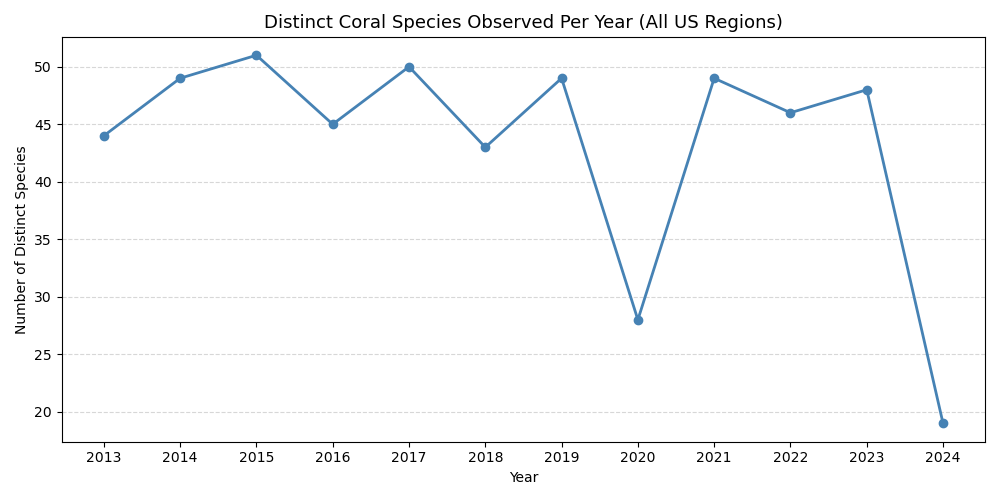
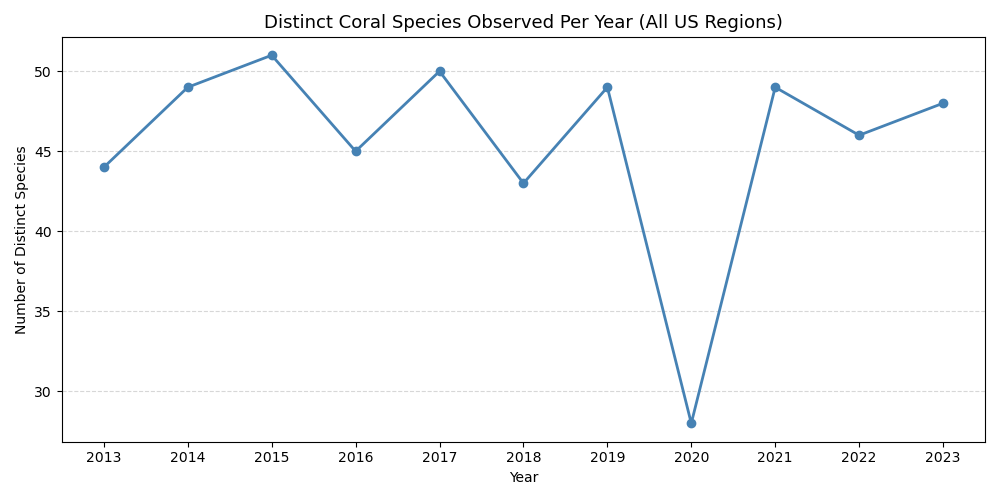
changed research question wording

diff --git a/visuals_nafisa.py b/visuals_nafisa.py
@@ -12,15 +12,13 @@ collection = client["coral_reef"]["occurrences"]
 
 q1 = collection.aggregate([
     { "$match": { "occurrenceStatus": "present" }},
-    { "$group": {
-        "_id": { "$year": "$eventDate" },
-        "distinctSpecies": { "$addToSet": "$scientificName" }
-    }},
-    { "$project": { "year": "$_id", "totalSpecies": { "$size": "$distinctSpecies" } }},
+    { "$group": { "_id": { "$year": "$eventDate" }, "distinctSpecies": { "$addToSet": "$scientificName" }
+    }},{ "$project": { "year": "$_id", "totalSpecies": { "$size": "$distinctSpecies" } }},
     { "$sort": { "year": 1 } }
 ])
 
 df_q1 = pd.DataFrame(q1)
+df_q1 = df_q1[df_q1["year"] != 2024]
 
 plt.figure(figsize=(10, 5))
 plt.plot(df_q1["year"], df_q1["totalSpecies"], marker="o", color="steelblue", linewidth=2)
@@ -48,12 +46,10 @@ q3 = collection.aggregate([
     { "$group": {
         "_id": "$region",
         "firstCount": { "$first": "$speciesCount" },
-        "lastCount":  { "$last": "$speciesCount" }
-    }},
+        "lastCount":  { "$last": "$speciesCount" }  }},
     { "$project": {
         "region": "$_id",
-        "change": { "$subtract": ["$lastCount", "$firstCount"] }
-    }},
+        "change": { "$subtract": ["$lastCount", "$firstCount"] } }},
     { "$sort": { "change": 1 }}
 ])
 
@@ -83,15 +79,9 @@ q6 = collection.aggregate([
     }},
     { "$sort": { "_id.year": 1 }},
     { "$group": {
-        "_id": "$_id.species",
-        "firstAbundance": { "$first": "$totalAbundance" },
-        "lastAbundance":  { "$last": "$totalAbundance" }
+        "_id": "$_id.species", "firstAbundance": { "$first": "$totalAbundance" }, "lastAbundance":  { "$last": "$totalAbundance" }
     }},
-    { "$project": {
-        "species": "$_id",
-        "firstAbundance": 1,
-        "lastAbundance": 1,
-        "change": { "$subtract": ["$lastAbundance", "$firstAbundance"] }
+    { "$project": {"species": "$_id", "firstAbundance": 1, "lastAbundance": 1, "change": { "$subtract": ["$lastAbundance", "$firstAbundance"] }
     }},
     { "$sort": { "change": 1 }},
     { "$limit": 10 }
@@ -157,5 +147,53 @@ plt.tight_layout()
 plt.savefig("q7_depth_over_time.png")
 plt.show()
 print("Saved: q7_depth_over_time.png")
+
+
+# Q9: Impact of the 3rd Global Coral Bleaching Event (2014-2017)
+
+q9 = collection.aggregate([
+    { "$match": { "occurrenceStatus": "present",
+        "eventDate": { "$gte": __import__("datetime").datetime(2013,1,1), "$lte": __import__("datetime").datetime(2019,12,31) }
+    }},
+    { "$group": {
+        "_id": { "$year": "$eventDate" },
+        "distinctSpecies": { "$addToSet": "$scientificName" },
+        "totalAbundance":  { "$sum": "$organismQuantity" }
+    }},
+    { "$project": { "year": "$_id", "speciesCount": { "$size": "$distinctSpecies" }, "totalAbundance": 1 }},
+    { "$sort": { "year": 1 }}
+])
+
+df_q9 = pd.DataFrame(q9).sort_values("year")
+
+fig, ax1 = plt.subplots(figsize=(12, 6))
+
+# shaded bleaching window
+ax1.axvspan(2014, 2017, color="coral", alpha=0.25, label="Bleaching Event (2014–2017)")
+
+# line 1 — species count (left axis)
+ax1.plot(df_q9["year"], df_q9["speciesCount"], marker="o", color="darkred", linewidth=2, label="Distinct Species")
+ax1.set_xlabel("Year")
+ax1.set_ylabel("Number of Distinct Species", color="darkred")
+ax1.tick_params(axis="y", labelcolor="darkred")
+
+# line 2 — abundance (right axis)
+ax2 = ax1.twinx()
+ax2.plot(df_q9["year"], df_q9["totalAbundance"], marker="s", color="steelblue", linewidth=2, linestyle="--", label="Total Abundance")
+ax2.set_ylabel("Total Coral Abundance", color="steelblue")
+ax2.tick_params(axis="y", labelcolor="steelblue")
+
+# combine legends from both axes
+lines1, labels1 = ax1.get_legend_handles_labels()
+lines2, labels2 = ax2.get_legend_handles_labels()
+ax1.legend(lines1 + lines2, labels1 + labels2, loc="upper left")
+
+plt.title("3rd Global Coral Bleaching Event (2014–2017):\nImpact on Species Richness & Abundance", fontsize=13)
+ax1.set_xticks(df_q9["year"])
+
+plt.tight_layout()
+plt.savefig("q9_bleaching_event.png")
+plt.show()
+print("Saved: q9_bleaching_event.png")
 
 client.close()